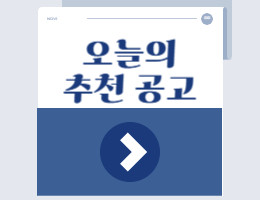
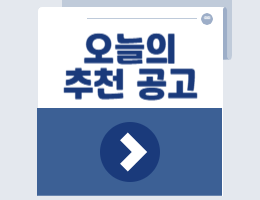
디자인 수정 및 정리

Changed region(s): [[0.2462, 0.15, 0.7692, 0.54], [0.1846, 0.06, 0.2154, 0.12]]

diff --git a/src/main/resources/templates/hrms/applicant/recruit/view.html b/src/main/resources/templates/hrms/applicant/recruit/view.html
@@ -19,6 +19,8 @@
 	<script src="/js/csrf-setup.js"></script>
 	<script type="text/javascript" src="https://cdn.jsdelivr.net/npm/toastify-js"></script>
 	<script src="/js/applicant/common.js"></script>
+	<script src="/js/csrf-setup.js"></script>
+
 
 	<script th:inline="javascript">
 		/*<![CDATA[*/
@@ -123,6 +125,19 @@
 				<div class="location-address" id="workplaceAddress">근무지 주소</div>
 				<div class="map-container" id="map"></div>
 			</div>
+		</div>
+
+
+		<div class="report-button-wrapper">
+		<!-- ✅ 신고하기 버튼 -->
+		<form action="/support/report" method="post" class="report-form">
+			<input type="hidden" name="type" value="JOB_POST">
+			<input type="hidden" name="targetId" value="공고ID입력">
+			<input type="hidden" name="reportedUserId" value="공고작성자ID"/>
+			<button type="submit" class="btn-report" title="신고하기">
+				🚨 신고하기
+			</button>
+		</form>
 		</div>
 
 	</div>

diff --git a/src/main/resources/static/css/applicant/recruit_view.css b/src/main/resources/static/css/applicant/recruit_view.css
@@ -2,7 +2,6 @@ body {
     font-family: 'Noto Sans KR', sans-serif;
     background-color: #f5f6f8;
     margin: 0;
-    padding: 20px;
 }
 
 .recruit-wrapper {
@@ -154,4 +153,33 @@ h3 {
     width: 100%;
     height: 300px; /* height 꼭 지정해야 함 */
 }
+
+/* ✅ 신고 버튼 영역 전체를 오른쪽 하단 정렬 */
+.report-button-wrapper {
+    display: flex;
+    justify-content: flex-end;
+    margin-top: 40px;
+    padding: 0 12px;
+}
+
+/* ✅ 신고 버튼 자체 스타일 */
+.report-form {
+    display: inline-block;
+}
+
+.btn-report {
+    background-color: #ff4d4f;
+    color: #fff;
+    border: none;
+    padding: 10px 16px;
+    border-radius: 6px;
+    font-size: 14px;
+    cursor: pointer;
+    transition: background-color 0.2s ease;
+}
+
+.btn-report:hover {
+    background-color: #d9363e;
+}
+
 

diff --git a/src/main/resources/templates/hrms/fragments/user/sidebarHn.html b/src/main/resources/templates/hrms/fragments/user/sidebarHn.html
@@ -13,11 +13,12 @@
 
       <nav class="menu">
         <ul class="sidebar-menu">
+          <li class="menu-item"><a th:href="@{/applicant/main}">📋 내 프로필</a></li>
           <li class="menu-item"><a th:href="@{/applicant/profile}">📋 프로필 관리</a></li>
           <li class="menu-item"><a th:href="@{/applicant/applications}">📋 지원 내역</a></li>
           <li class="menu-item"><a th:href="@{/applicant/resume/list}">📋 이력서 관리</a></li>
           <li class="menu-item"><a th:href="@{/applicant/bookmarks}">📋 북마크</a></li>
-          <li class="menu-item"><a th:href="@{/users/mypage/request}">❓ 문의</a></li>
+          <li class="menu-item"><a th:href="@{/applicant/request}">❓ 문의</a></li>
         </ul>
       </nav>
     </div>

diff --git a/src/main/resources/static/js/applicant/mypage/inquiries.js b/src/main/resources/static/js/applicant/mypage/inquiries.js
@@ -66,8 +66,8 @@ $(document).ready(function () {
             $tbody.append(`
                 <tr>
                     <td>${inquiry.id}</td>
-                    <td><a href="/request/${inquiry.id}">${inquiry.reasonName || "-"}</a></td>
-                    <td><a href="/request/${inquiry.id}">${inquiry.title}</a></td>
+                    <td><a href="/applicant/qa/${inquiry.id}">${inquiry.reasonName || "-"}</a></td>
+                    <td><a href="/applicant/qa/${inquiry.id}">${inquiry.title}</a></td>
                     <td>${createdDate}</td>
                     <td>${status}</td>
                     <td>${repliedDate}</td>

diff --git a/src/main/resources/static/css/support/inquiry.css b/src/main/resources/static/css/support/inquiry.css
@@ -12,15 +12,16 @@ body {
 
 .title {
     display: flex;
-    text-align: center;
     justify-content: center;
     align-items: center;
-    font-size: 50px;
-    font-weight: bold;
-    color: #ffffff;
     margin-bottom: 30px;
+    margin-top: 30px;
+}
+
+.title img {
+    width: 1200px;
     height: 200px;
-    background: linear-gradient(135deg, #20558a, #4d83cf, #104271);
+    object-fit: cover;
 }
 
 .form-group {

diff --git a/src/main/resources/templates/hrms/support/inquiry.html b/src/main/resources/templates/hrms/support/inquiry.html
@@ -8,7 +8,9 @@
 
     <section layout:fragment="content">
 
-        <span class="title">노비 문의하기</span>
+        <span class="title">
+        <img src="/images/request.png" alt="노비 문의하기 배너">
+        </span>
         <div class="inquiry-form-container">
 
             <form id="inquiryForm">

diff --git a/src/main/resources/templates/hrms/applicant/users/mypage_qa.html b/src/main/resources/templates/hrms/applicant/users/mypage_qa.html
@@ -33,7 +33,7 @@
         </div>
 
         <div class="return-wrapper">
-            <a href="/support/inquiries" class="return-btn">목록으로 돌아가기</a>
+            <a href="/applicant/request" class="return-btn">목록으로 돌아가기</a>
         </div>
     </section>
 </div>

diff --git a/src/main/resources/static/css/user/qa.css b/src/main/resources/static/css/user/qa.css
@@ -1,7 +1,6 @@
 body {
     font-family: Arial, sans-serif;
     background-color: #f8f9fc;
-    padding: 20px;
     font-size: 17px; /* 전체 기본 폰트 크기 키움 */
 }
 

diff --git a/src/main/java/org/wit/hrmatching/controller/applicant/ApplicantProfileController.java b/src/main/java/org/wit/hrmatching/controller/applicant/ApplicantProfileController.java
@@ -2,6 +2,7 @@ package org.wit.hrmatching.controller.applicant;
 
 import org.springframework.stereotype.Controller;
 import org.springframework.web.bind.annotation.GetMapping;
+import org.springframework.web.bind.annotation.PathVariable;
 import org.springframework.web.bind.annotation.RequestMapping;
 
 @Controller
@@ -16,5 +17,16 @@ public class ApplicantProfileController {
 	@GetMapping("/profile")
 	public String profile() {
 		return "applicant/mypage/profile";
+	}
+
+	@GetMapping("/request")
+	public String request() {
+		return "/applicant/users/mypage_request";
+	}
+
+
+	@GetMapping("/qa/{inquiryId}")
+	public String QA(@PathVariable String inquiryId) {
+		return "/applicant/users/mypage_qa";
 	}
 }

diff --git a/src/main/java/org/wit/hrmatching/controller/applicant/UserControllerTest.java b/src/main/java/org/wit/hrmatching/controller/applicant/UserControllerTest.java
@@ -13,11 +13,6 @@ public class UserControllerTest {
         return "/applicant/users/mypage";       // 💡 반환할 뷰 이름
     }
 
-    @GetMapping("/request")
-    public String showApplicationHistory() {
-        return "/applicant/users/mypage_request";
-    }
-
     @GetMapping("/resume")
     public String showApplicationResume() {
         return "/applicant/users/mypage_application_resume";
@@ -28,8 +23,6 @@ public class UserControllerTest {
         return "/applicant/users/mypage_application_list";
     }
 
-    @GetMapping("/qa")
-    public String showApplicationqa() { return "/applicant/users/mypage_qa"; }
 }
 
 
